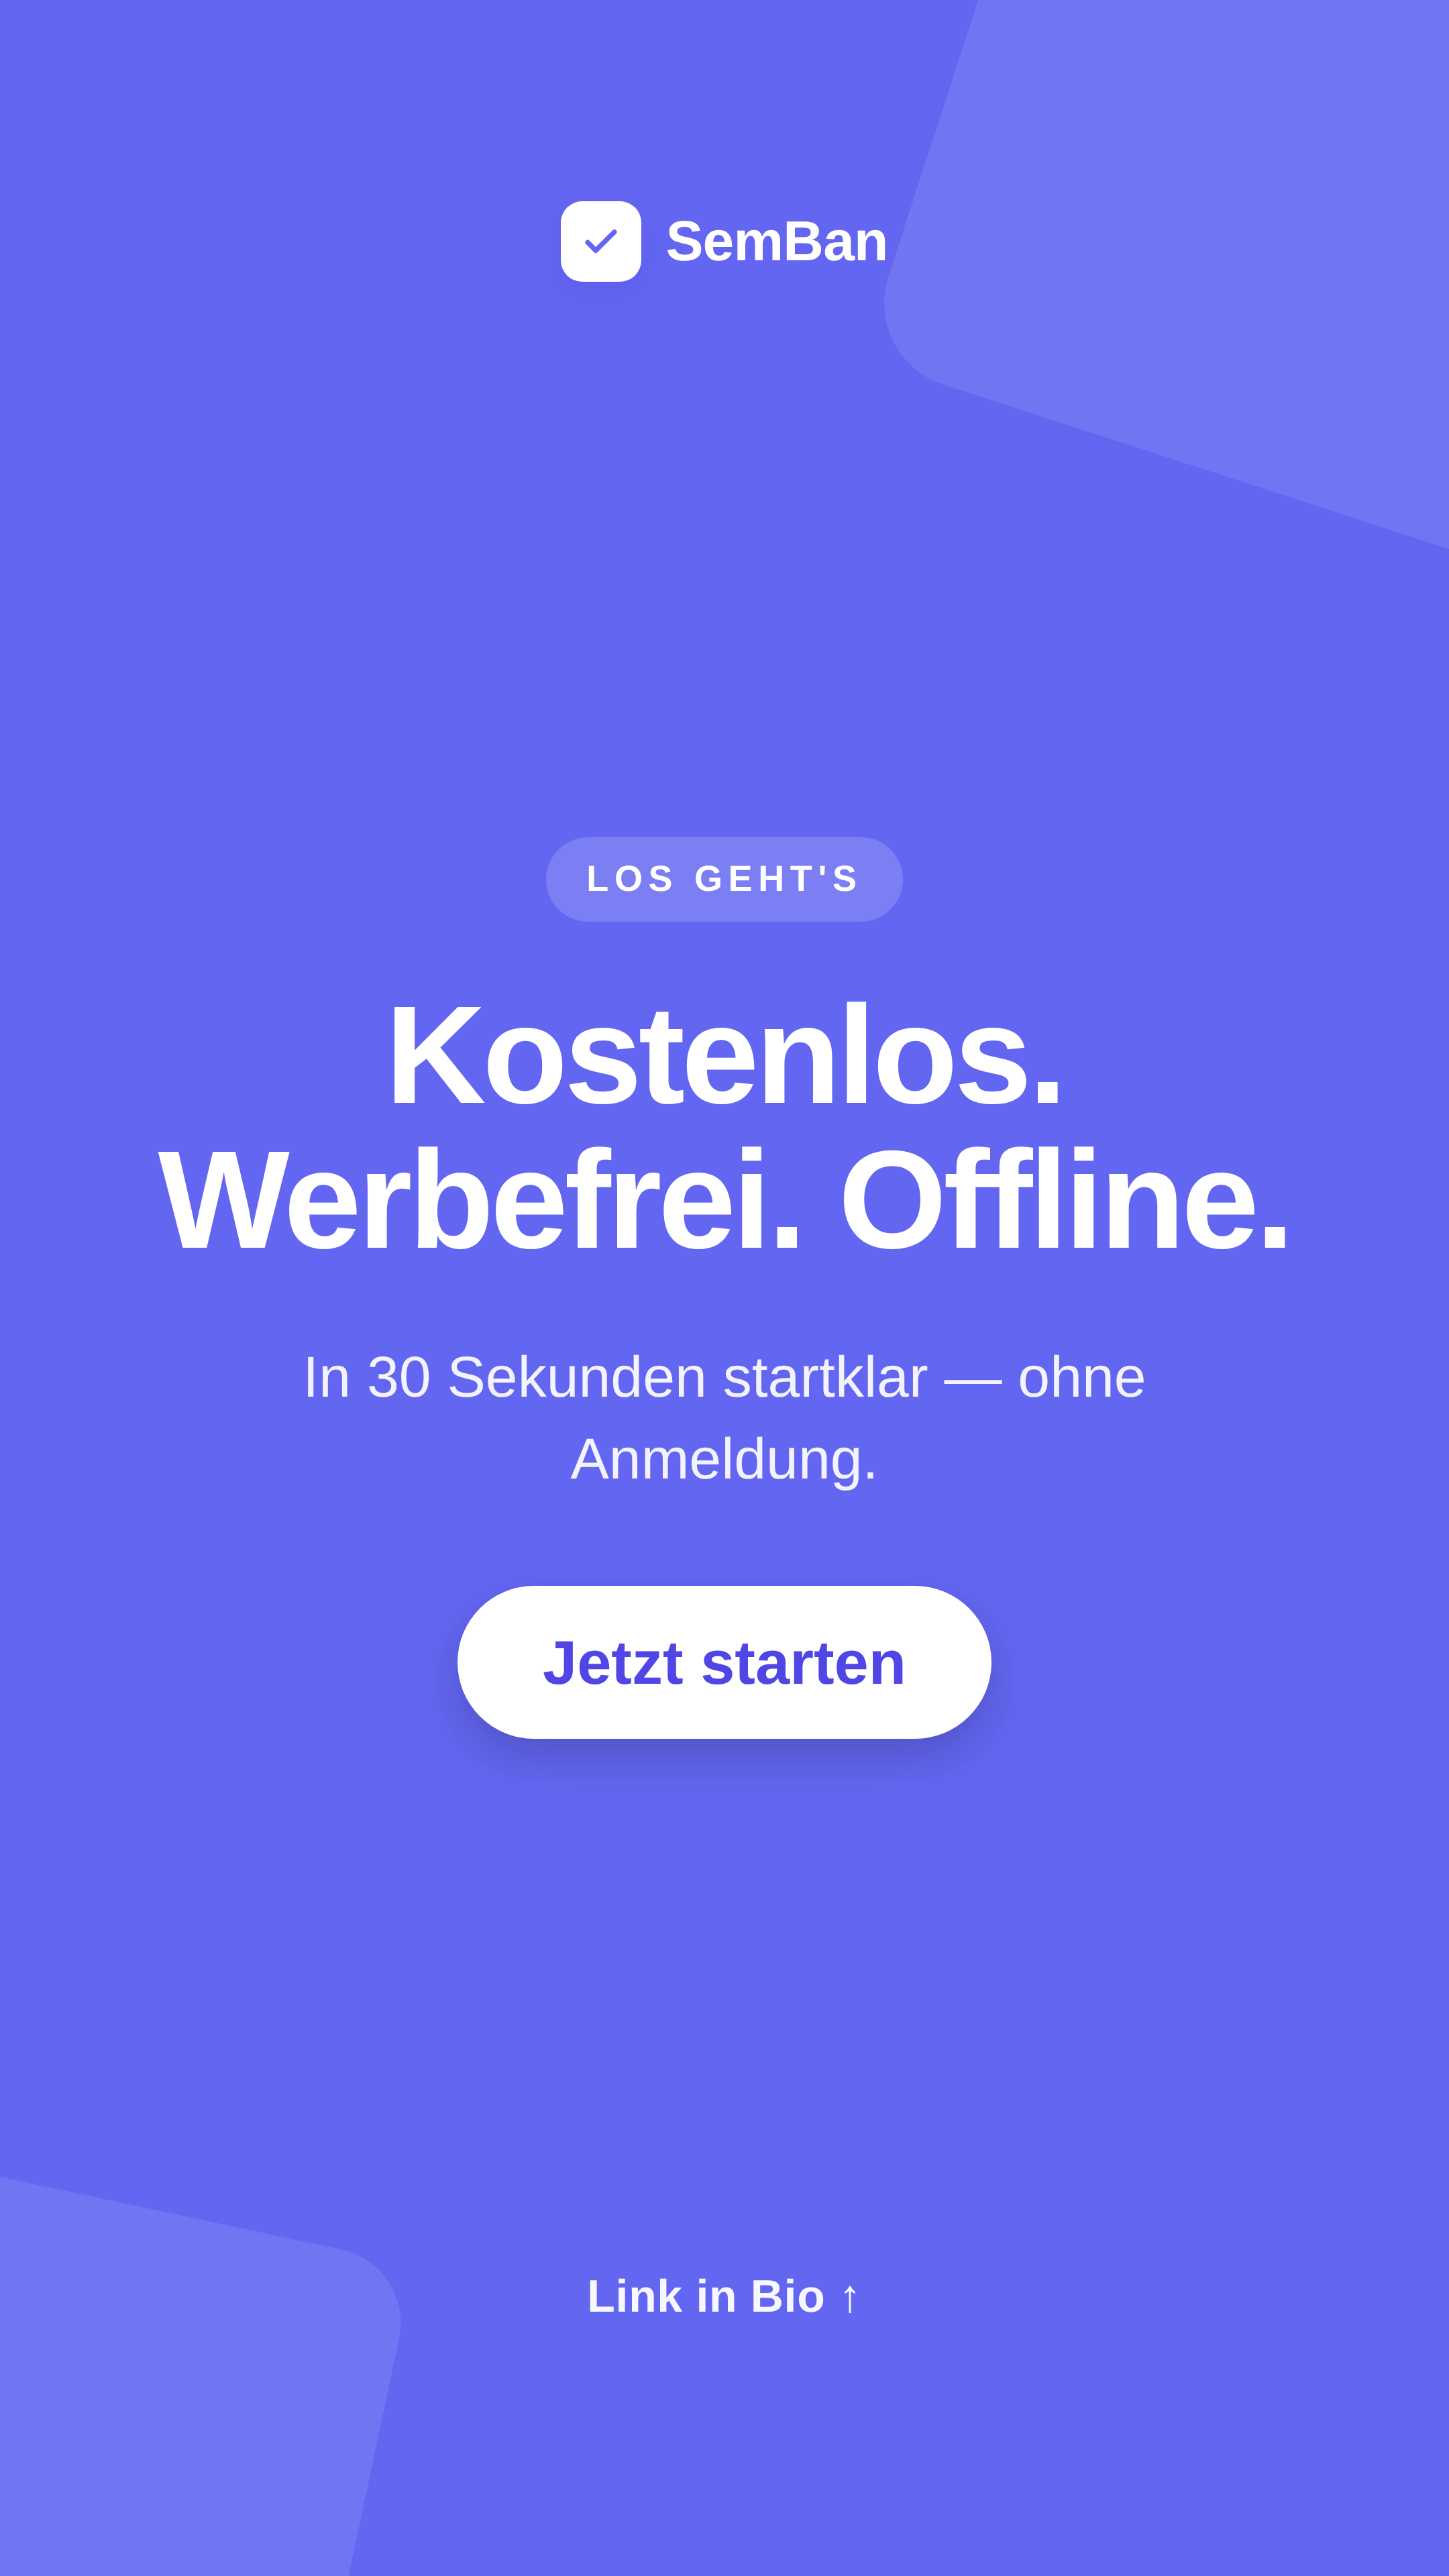
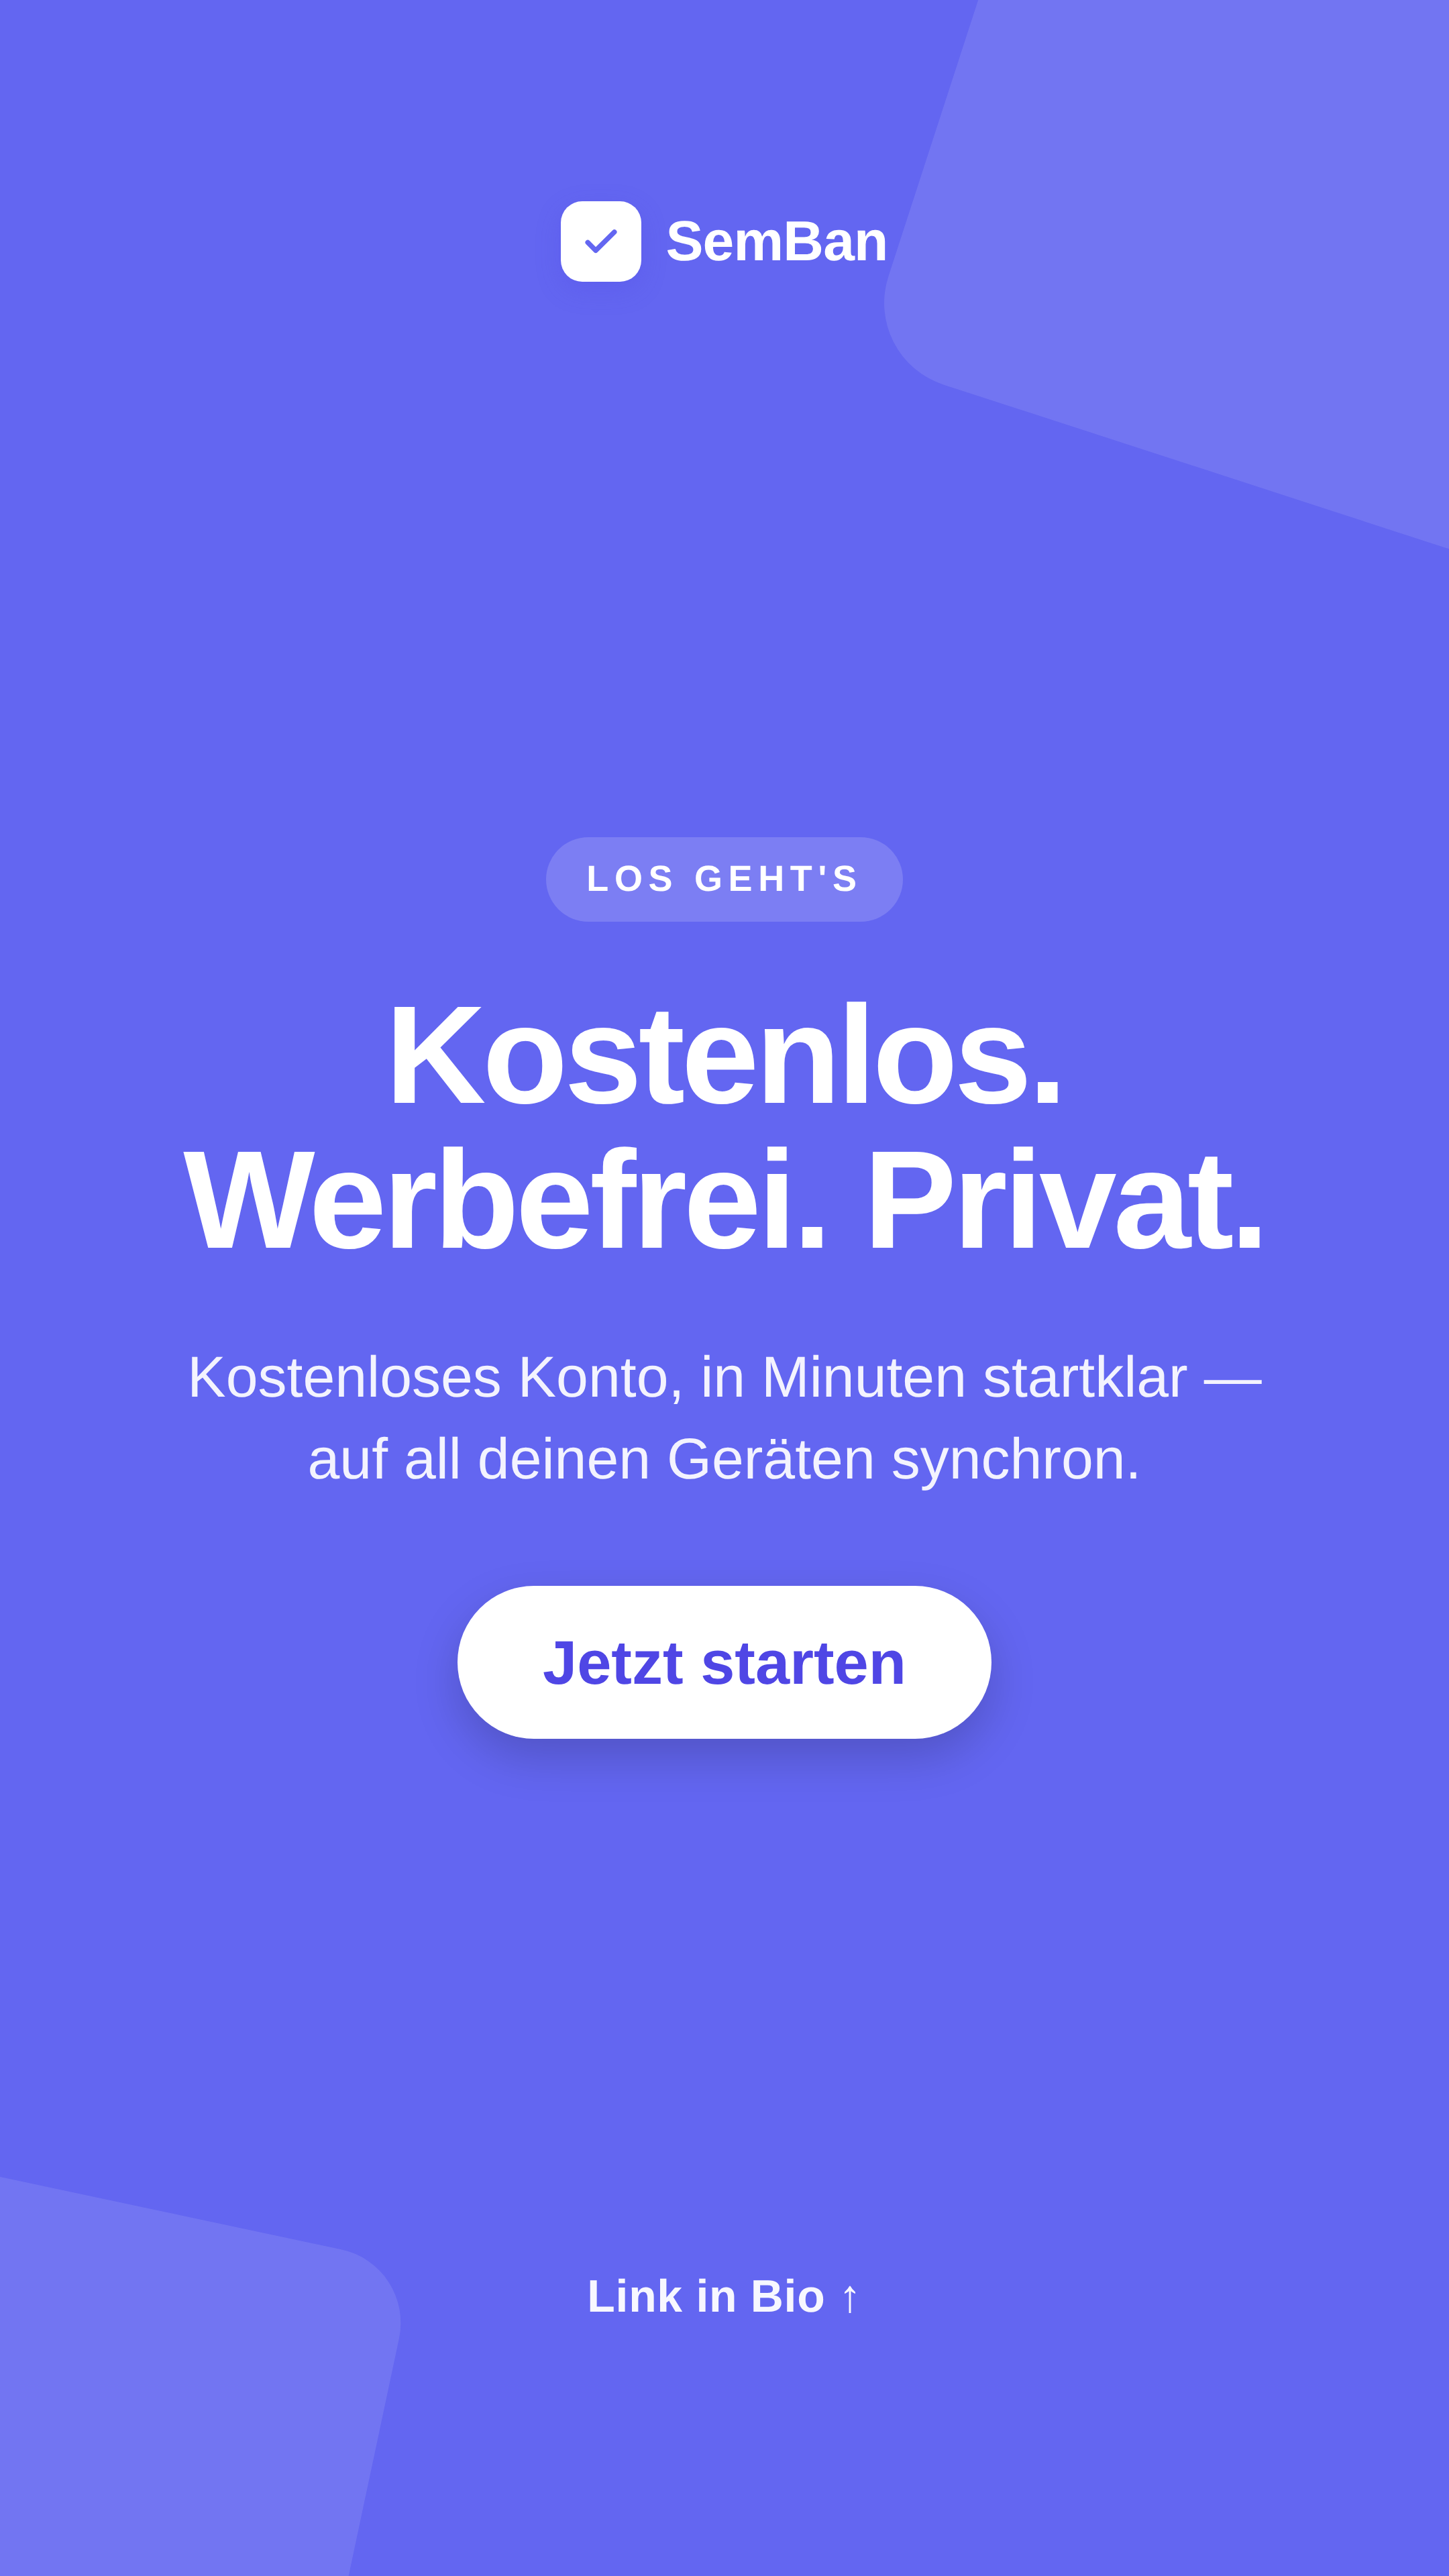
Instagram: FAQ-Story-Slider neu (echte Vor-dem-Start-Fragen) + Faktenkorrektur
Neuer 8-Slide-FAQ-Slider "Ehrliche Antworten" mit prospect-orientierten Fragen
(Notion-Vergleich, Setup-Aufwand, Hand-Eintragen, Timing, Kosten, Konto/Daten).
Alte FAQ-Slides faktisch korrigiert: Konto ist erforderlich (kostenlos),
Daten privat im Konto mit Offline-Kopie — statt "ohne Konto/komplett offline".

Claude-Session: https://claude.ai/code/session_01TCeGsXCmaurWWPV3ReZXem

Changed region(s): [[0.0931, 0.4375, 0.8995, 0.5], [0.1241, 0.5312, 0.8065, 0.5938]]

diff --git a/marketing/instagram/10-faq-story.md b/marketing/instagram/10-faq-story.md
@@ -1,0 +1,37 @@
+# FAQ-Story-Slider · „Ehrliche Antworten." (9:16)
+
+Eigenständige **8-Slide-Story-Sequenz** (1080×1920). Liegt in `slides/` als
+`story-faqx-1 … 8.png`. Copy/Design in `slides/render-faq.mjs`
+(`node marketing/instagram/slides/render-faq.mjs` zum Neu-Rendern).
+
+**Warum neu:** Die alten FAQ-Slides (`story-faq-*`) beantworteten generische
+Fragen — teils **faktisch falsch** (z. B. „ohne Konto nutzbar"). Dieser Slider
+stellt die echten Einwände, die eine:n Studi **vor dem Start** vom Ausprobieren
+abhalten, und beantwortet sie **faktentreu zur App** (Konto nötig, kostenlos,
+privat, Offline-Kopie — abgeglichen mit der Landing-Page).
+
+| # | Datei | Frage (Einwand) | Kern-Antwort |
+|---|---|---|---|
+| 1 | `story-faqx-1` | Cover „Ehrliche Antworten." | — |
+| 2 | `story-faqx-2` | „Reicht dafür nicht Notion?" | Notion = Bastel-Projekt; SemBan kennt den Uni-Rhythmus fertig |
+| 3 | `story-faqx-3` | „Wie schnell bin ich startklar?" | Konto in Sekunden, Grundgerüst in Minuten |
+| 4 | `story-faqx-4` | „Muss ich alles von Hand eintragen?" | Nein — Auto-Wochenblätter + Schnell-Eingabe |
+| 5 | `story-faqx-5` | „Mitten im Semester zu spät?" | Nie — richtet sich nach deinem echten Datum |
+| 6 | `story-faqx-6` | „Was kostet das — wirklich?" | Nichts: kostenlos, werbefrei, kein Abo, kein Premium |
+| 7 | `story-faqx-7` | „Konto — und meine Daten?" | Ja, kostenloses Konto; privat, nur du, Offline-Kopie, löschbar |
+| 8 | `story-faqx-8` | CTA „Frag uns alles." | **Frage-Sticker** + Link |
+
+### Faktencheck (Stand der App)
+- **Konto nötig:** Ja. In der veröffentlichten App (Sync aktiv) gibt es ohne
+  Login keinen Zugriff auf die Daten (`AuthGate`). Ehrlich so benannt.
+- **Kosten:** komplett kostenlos & werbefrei, kein Abo/Premium.
+- **Daten:** privat im persönlichen Konto (nur du), zusätzlich Offline-Kopie auf
+  dem Gerät, jederzeit löschbar.
+- **Geräte:** Handy + Laptop automatisch synchron.
+
+### Einsatz
+- Als **Live-Story** posten, Frage-Sticker auf Slide 8 setzen → ins Highlight
+  **„Ihr fragt"** legen (Cover: `visuals/highlight-5-fragen.png`).
+- Ersetzt inhaltlich den alten `story-faq-*`-Block. Die alten Slides wurden
+  zusätzlich **faktisch korrigiert** (Konto/Daten), falls du sie weiter nutzt.
+- Frage-Sticker-Antworten konservieren = dauerhaftes Engagement im Highlight.

diff --git a/marketing/instagram/05-stories.md b/marketing/instagram/05-stories.md
@@ -56,8 +56,8 @@ die legst du beim Posten in der Instagram-App darüber (Spalte „Sticker live")
 | Datei | Aussage | Sticker live |
 |---|---|---|
 | `story-faq-1` | „Kostet SemBan etwas?" → Nein | — |
-| `story-faq-2` | „Brauche ich ein Konto?" → nur für Sync | — |
-| `story-faq-3` | „Sind meine Daten sicher?" → lokal/offline | — |
+| `story-faq-2` | „Brauche ich ein Konto?" → ja, kostenlos (für Sync & Sicherheit) | — |
+| `story-faq-3` | „Sind meine Daten sicher?" → privat im Konto, nur du; Offline-Kopie | — |
 | `story-faq-4` | „Für welche Uni?" → für jede | **Frage-Sticker**: „Frag uns alles" |
 
 ---